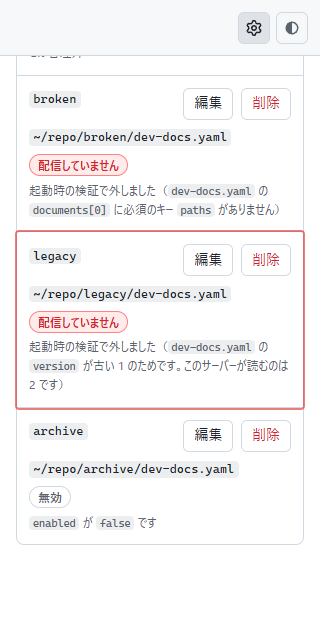
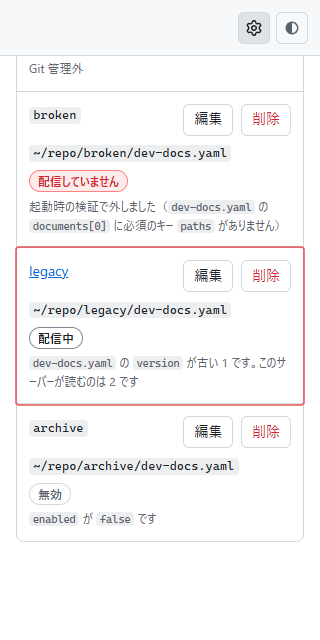
fix: モックの legacy の状態を配信中に戻し、古いバージョンを補足の文で出す

diff --git a/dev/mock/pages/settings/12/default/index.html b/dev/mock/pages/settings/12/default/index.html
@@ -94,9 +94,9 @@
               </td>
             </tr>
             <tr>
-              <td><code>legacy</code></td>
+              <td><a href="../../../doc-view/12/default/index.html">legacy</a></td>
               <td class="col-config"><code>~/repo/legacy/dev-docs.yaml</code></td>
-              <td class="col-status"><span class="status status--error">配信していません</span><span class="status-note">起動時の検証で外しました（<code>dev-docs.yaml</code> の <code>version</code> が古い 1 のためです。このサーバーが読むのは 2 です）</span></td>
+              <td class="col-status"><span class="status status--ok">配信中</span><span class="status-note"><code>dev-docs.yaml</code> の <code>version</code> が古い 1 です。このサーバーが読むのは 2 です</span></td>
               <td class="col-actions">
                 <button class="tool-button" type="button" commandfor="edit-dialog" command="show-modal" aria-label="legacy を編集">編集</button>
                 <button class="tool-button tool-button--danger" type="button" commandfor="delete-dialog" command="show-modal" aria-label="legacy を削除">削除</button>
